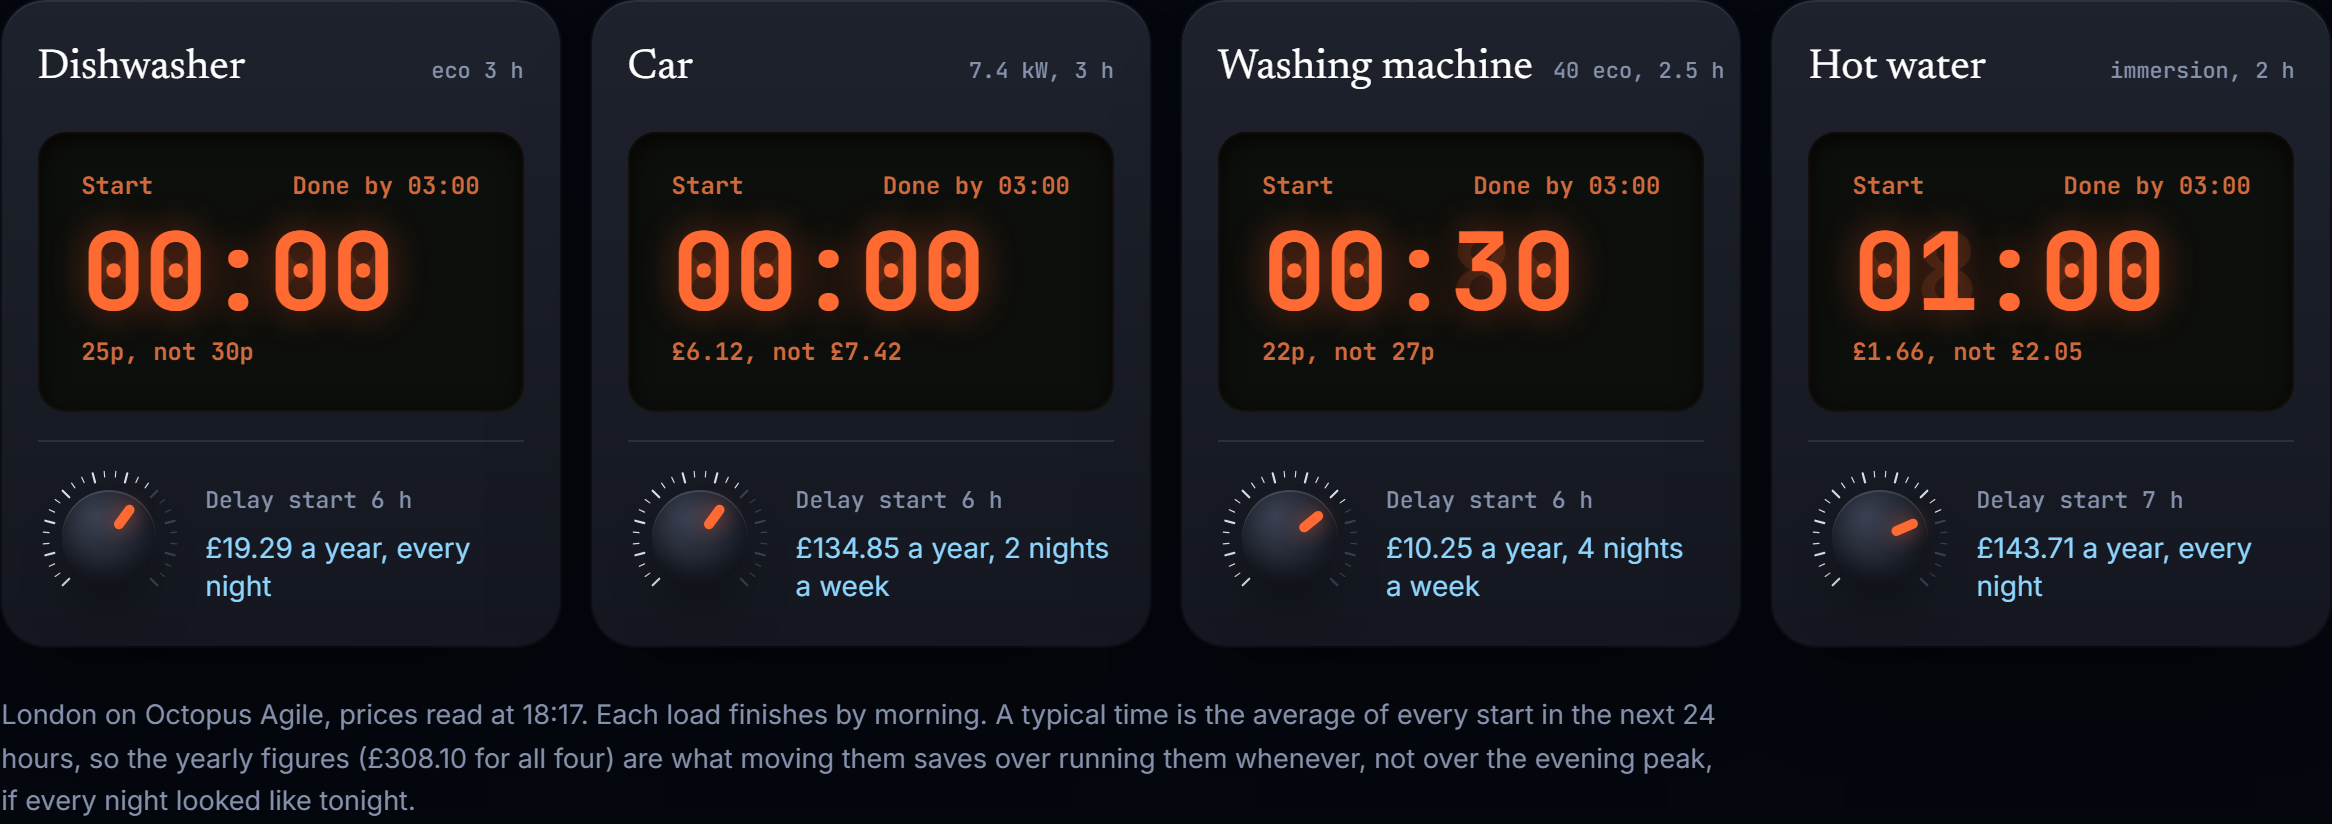
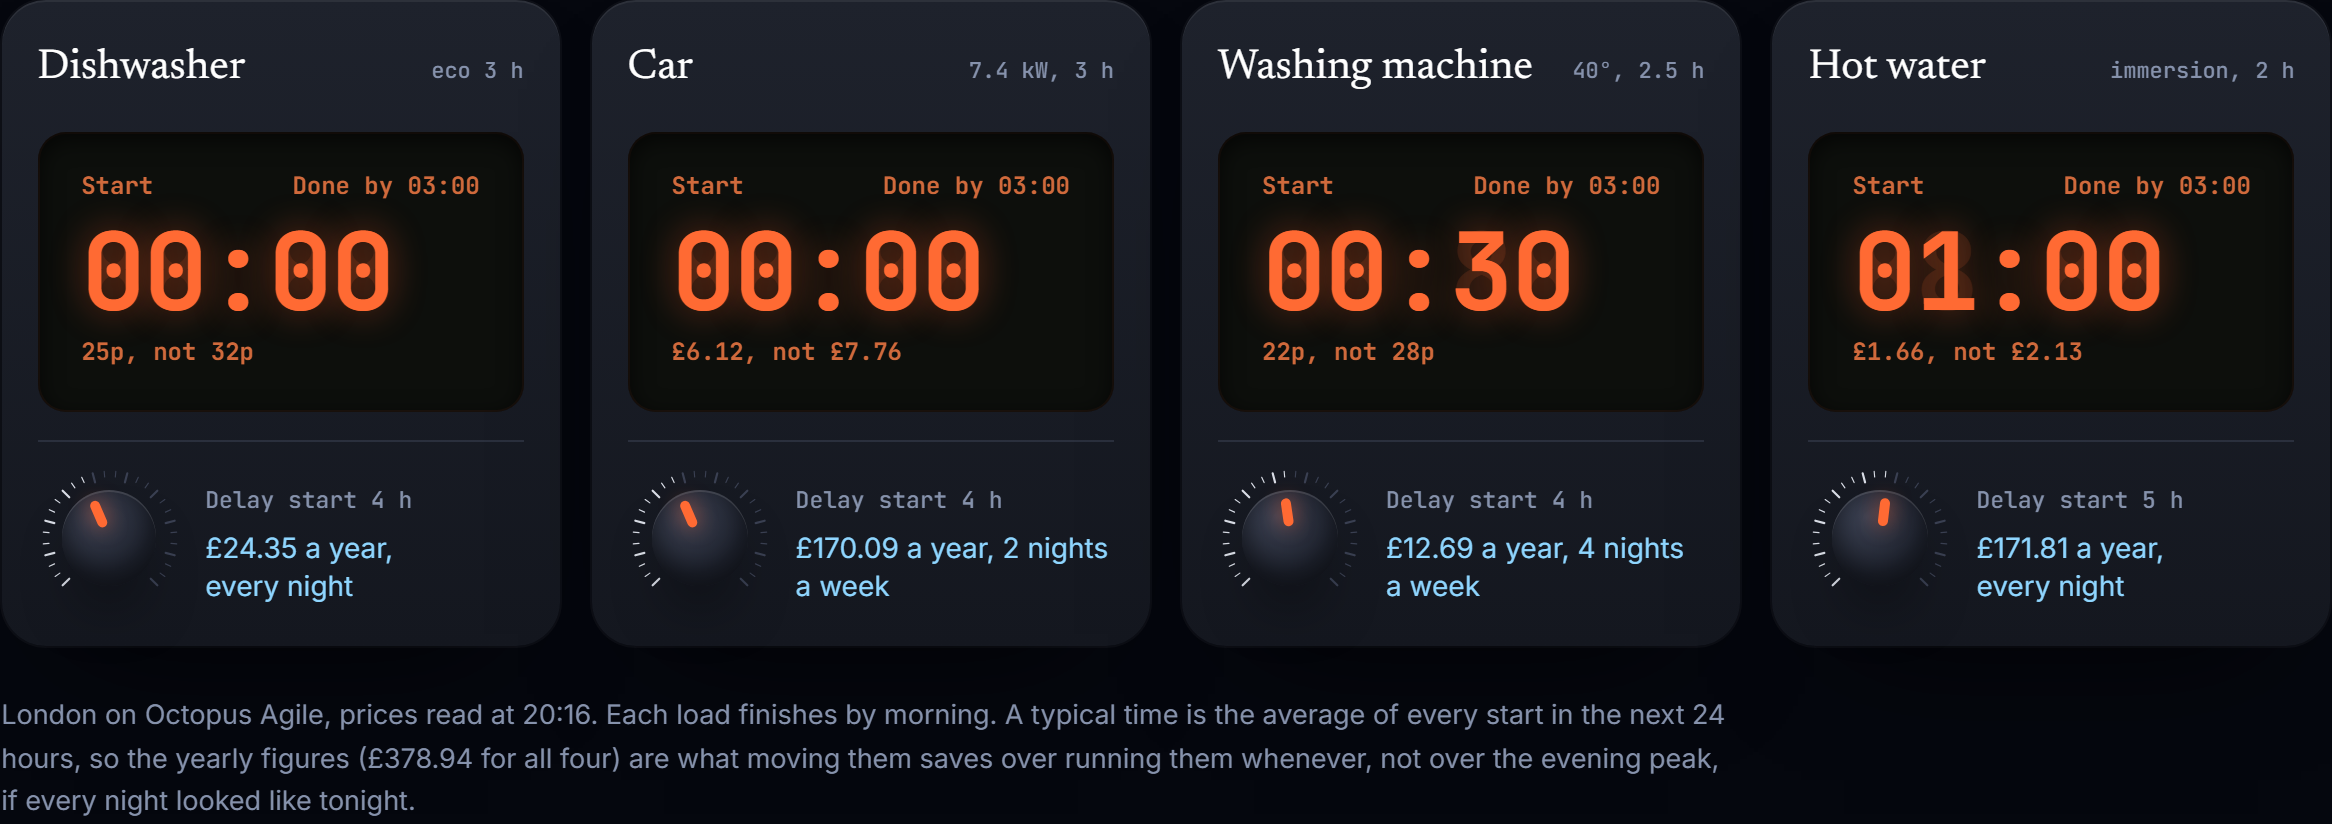
Fresh screens from the live site; README caption for the car exchange

diff --git a/README.md b/README.md
@@ -33,14 +33,14 @@ But nobody reads a price table while plugging in the car or loading the dishwash
 
 ## What it does
 
-<img src="docs/screens/echo-scheduled.png" alt="Simulated Echo Show: Alexa has saved the dishwasher for 00:00, done by 03:00, 25p, and shows the day's prices on a dial" width="100%">
+<img src="docs/screens/echo-scheduled.png" alt="Simulated Echo Show: asked when to charge the car, Alexa has saved it for 23:00, £8.41, 70p less than starting now, and shows the day's prices on a dial" width="100%">
 
 > **You:** Alexa, when should I run the dishwasher? It needs to be done by seven.<br>
 > **Alexa:** Run the dishwasher tonight at midnight, done by 3 a.m., in time for 7 a.m. tomorrow morning. It costs about 25 pence, 6 pence less than starting now. Would you like to save it?<br>
 > **You:** Yes please.<br>
 > **Alexa:** The dishwasher is saved for midnight tonight. That saves 6 pence.
 
-Asked on an evening in London (18 October 2026's prices, the exchange in the screenshot above): Amazon Nova Micro on Amazon Bedrock, calling Lowtide's MCP tools, with the live Agile rates. Every answer is priced from that day's published prices, so the hour and the pence change daily. "Seven" with no a.m. or p.m. means the next seven the run can still make: asked at 2 p.m., the same question plans for 7 p.m. today, and says so. Before about 4 p.m. UK time Octopus hasn't published tomorrow's prices, so an overnight deadline is planned from what is published and Alexa says tomorrow's prices aren't out yet. The answer comes back twice: **a sentence to speak**, and **an MCP App view for the Echo Show screen**, the next 24 hours on a dial with the run marked on the rim.
+Asked on an evening in London (18 October 2026's prices; the exchange in the demo video, while the screenshot above is the same evening's car): Amazon Nova Micro on Amazon Bedrock, calling Lowtide's MCP tools, with the live Agile rates. Every answer is priced from that day's published prices, so the hour and the pence change daily. "Seven" with no a.m. or p.m. means the next seven the run can still make: asked at 2 p.m., the same question plans for 7 p.m. today, and says so. Before about 4 p.m. UK time Octopus hasn't published tomorrow's prices, so an overnight deadline is planned from what is published and Alexa says tomorrow's prices aren't out yet. The answer comes back twice: **a sentence to speak**, and **an MCP App view for the Echo Show screen**, the next 24 hours on a dial with the run marked on the rim.
 
 - **Plans any shiftable load** (dishwasher, washing machine, tumble dryer, EV, immersion heater, home battery), with a deadline ("done by seven"), an earliest start ("not before ten"), and a goal: cheapest, greenest, or both.
 - **Remembers the household:** saved runs and money saved, behind a private household link (no account; a name is optional and never required).
